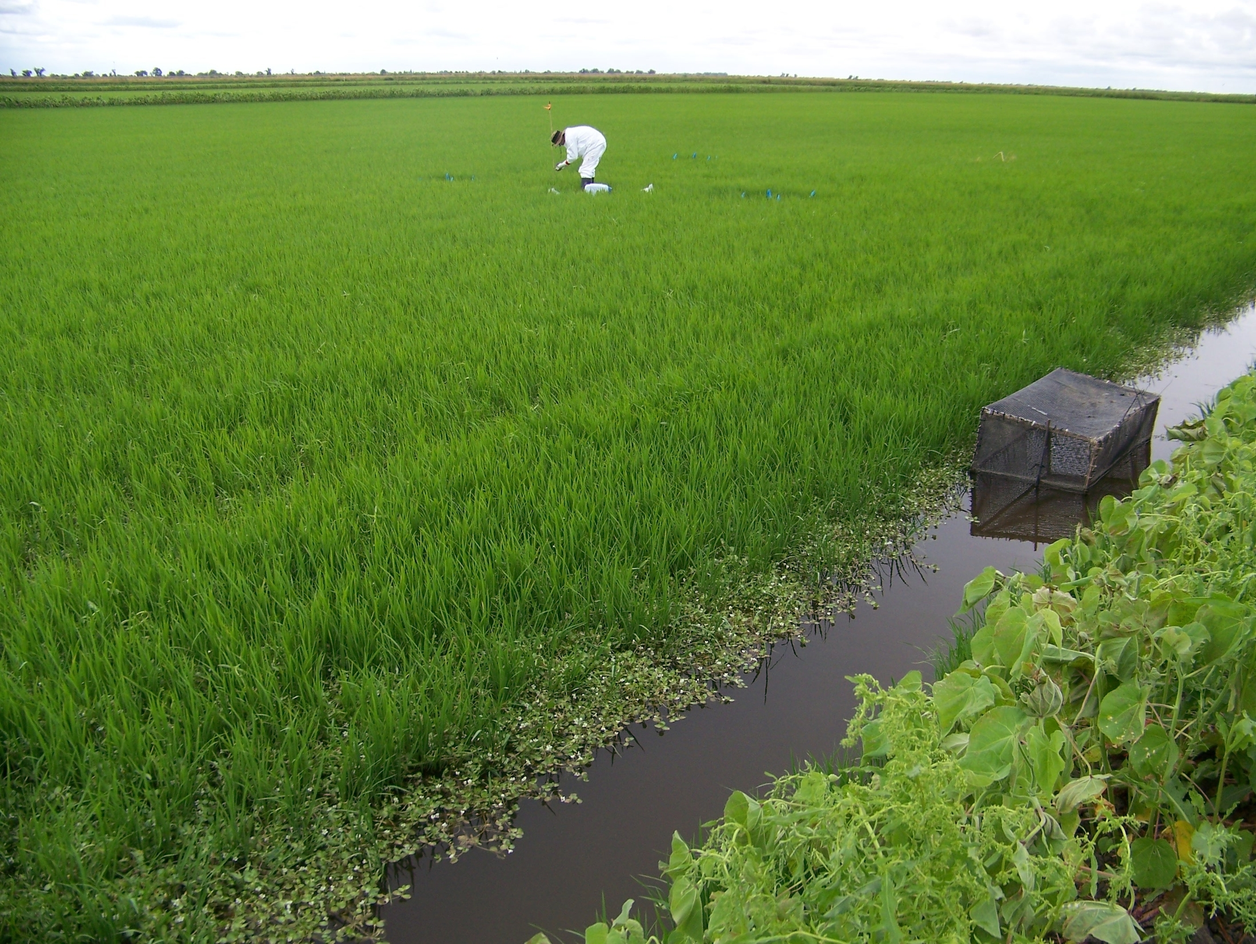
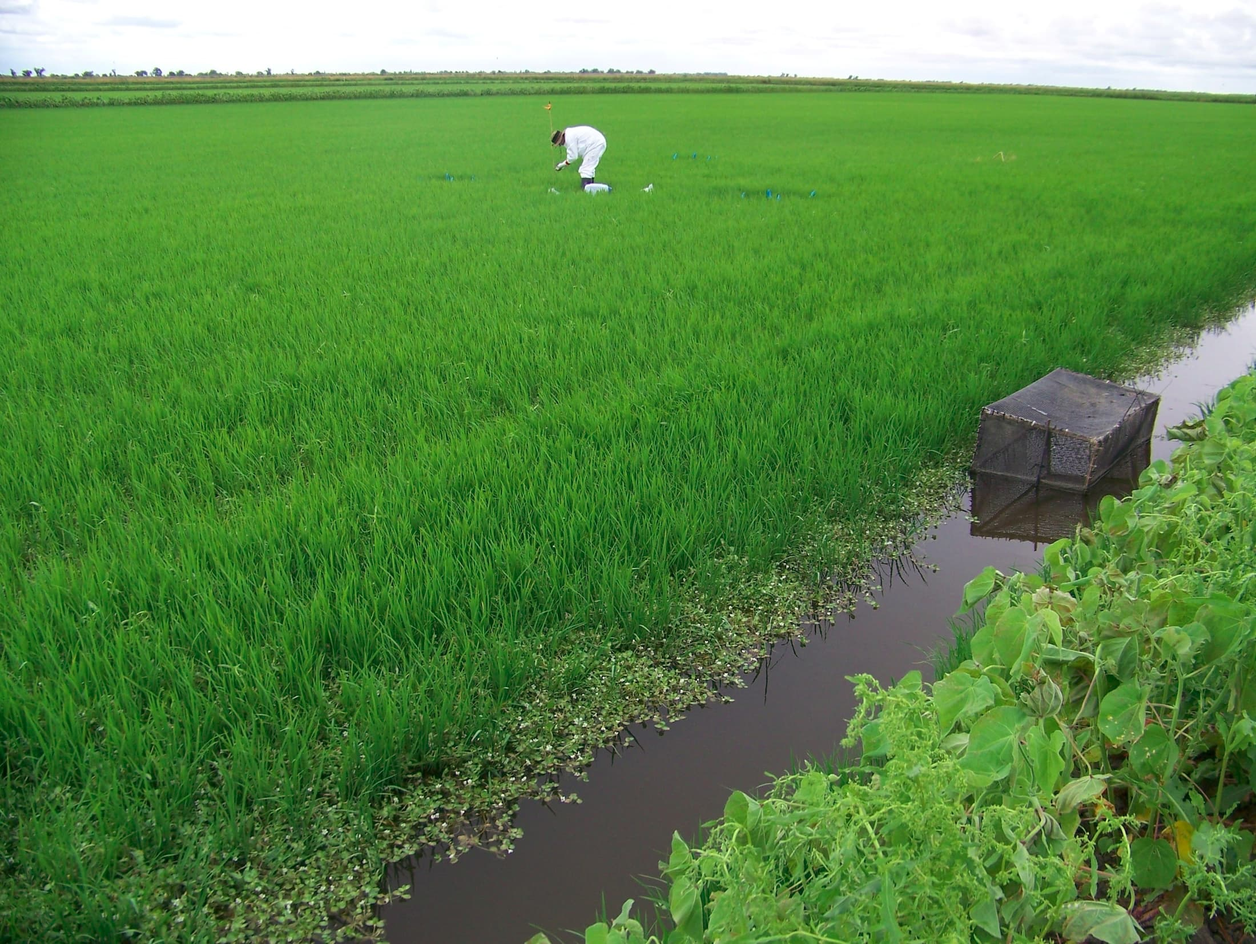
delete webp

Changed region(s): [[0.0, 0.2468, 0.8036, 0.8022]]

diff --git a/components/HowToMake.vue b/components/HowToMake.vue
@@ -1,5 +1,5 @@
 <template>
-  <v-parallax src="rice_field_sediment_sampling.webp" height="380">
+  <v-parallax src="rice_field_sediment_sampling.jpg" height="380">
     <v-layout column align-center justify-center>
       <div class="headline white--text mb-3 text-xs-center">
         おいしいお米は農家さんの努力によって作られています。
